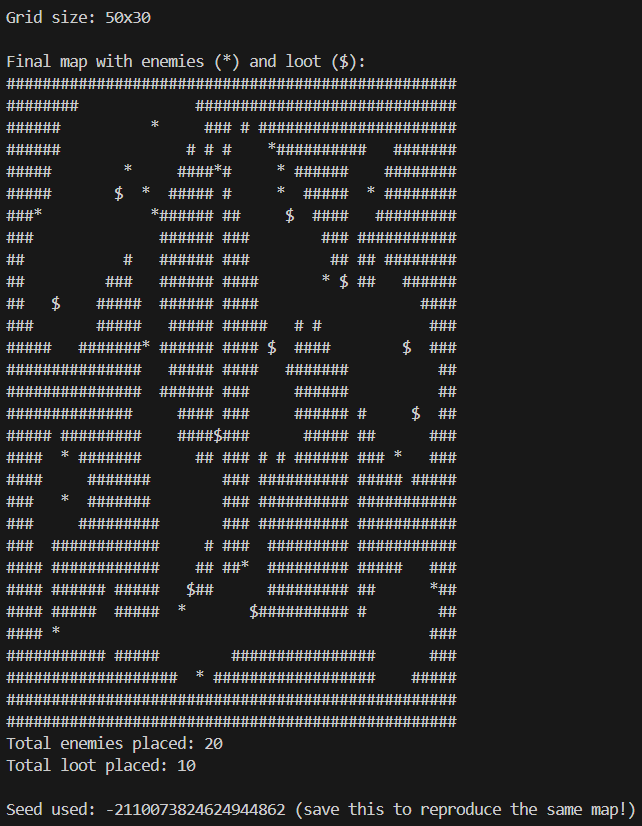
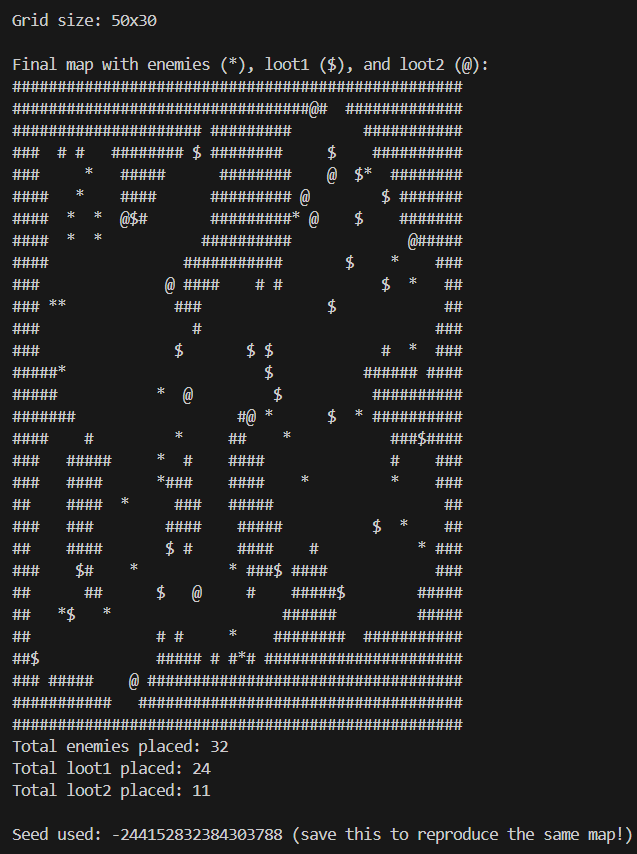
feat: documentation

diff --git a/README.md b/README.md
@@ -14,7 +14,7 @@ availability of useful loot.
 # The working version
 Here you can see the code of the last version of project: [Link](app\Main.hs)
 # Demo
-Here you can see demo video: [Video](https://drive.google.com/file/d/1Ao8013NjCw8gYMPixqgQZKUjtOQTH7aT/view?usp=drivesdk)
+Here you can see demo video: [Video](https://drive.google.com/file/d/1qWdtTaFRy4HB5j80txO_BoKX01Kj_uDt/view?usp=sharing)
 
 Bellow you can see examples of generated maps:
 | | | | 
@@ -24,7 +24,7 @@ Bellow you can see examples of generated maps:
 
 ## Annotation:
 * **Enemies** are marked as `*`;
-* **Loot** is marked as `$`;
+* **Loot** is marked as `$` and `@`;
 * **Walls** are marked as `#`.
 
 Generation method:
@@ -35,8 +35,8 @@ Generation method:
 
 ## Responsibilities distribution
 ### Stage 1:
-* Fyodor created object types, GridWithoutObject generation 
-* Timur created evolution rule, object adding to the map
+* Fyodor created object types, GridWithoutObject generation;
+* Timur created evolution rule, object adding to the map.
 ### Stage 2:
-* Timur improved connectivity (searching unconnected parts and connecting them artificially)
-* Fyodor improved probability rates, view of objects, added choice for probabilities, added additional loot type
+* Timur improved connectivity (searching unconnected parts and connecting them artificially), added documentation;
+* Fyodor improved probability rates, view of objects, added choice for probabilities, added additional loot type.
